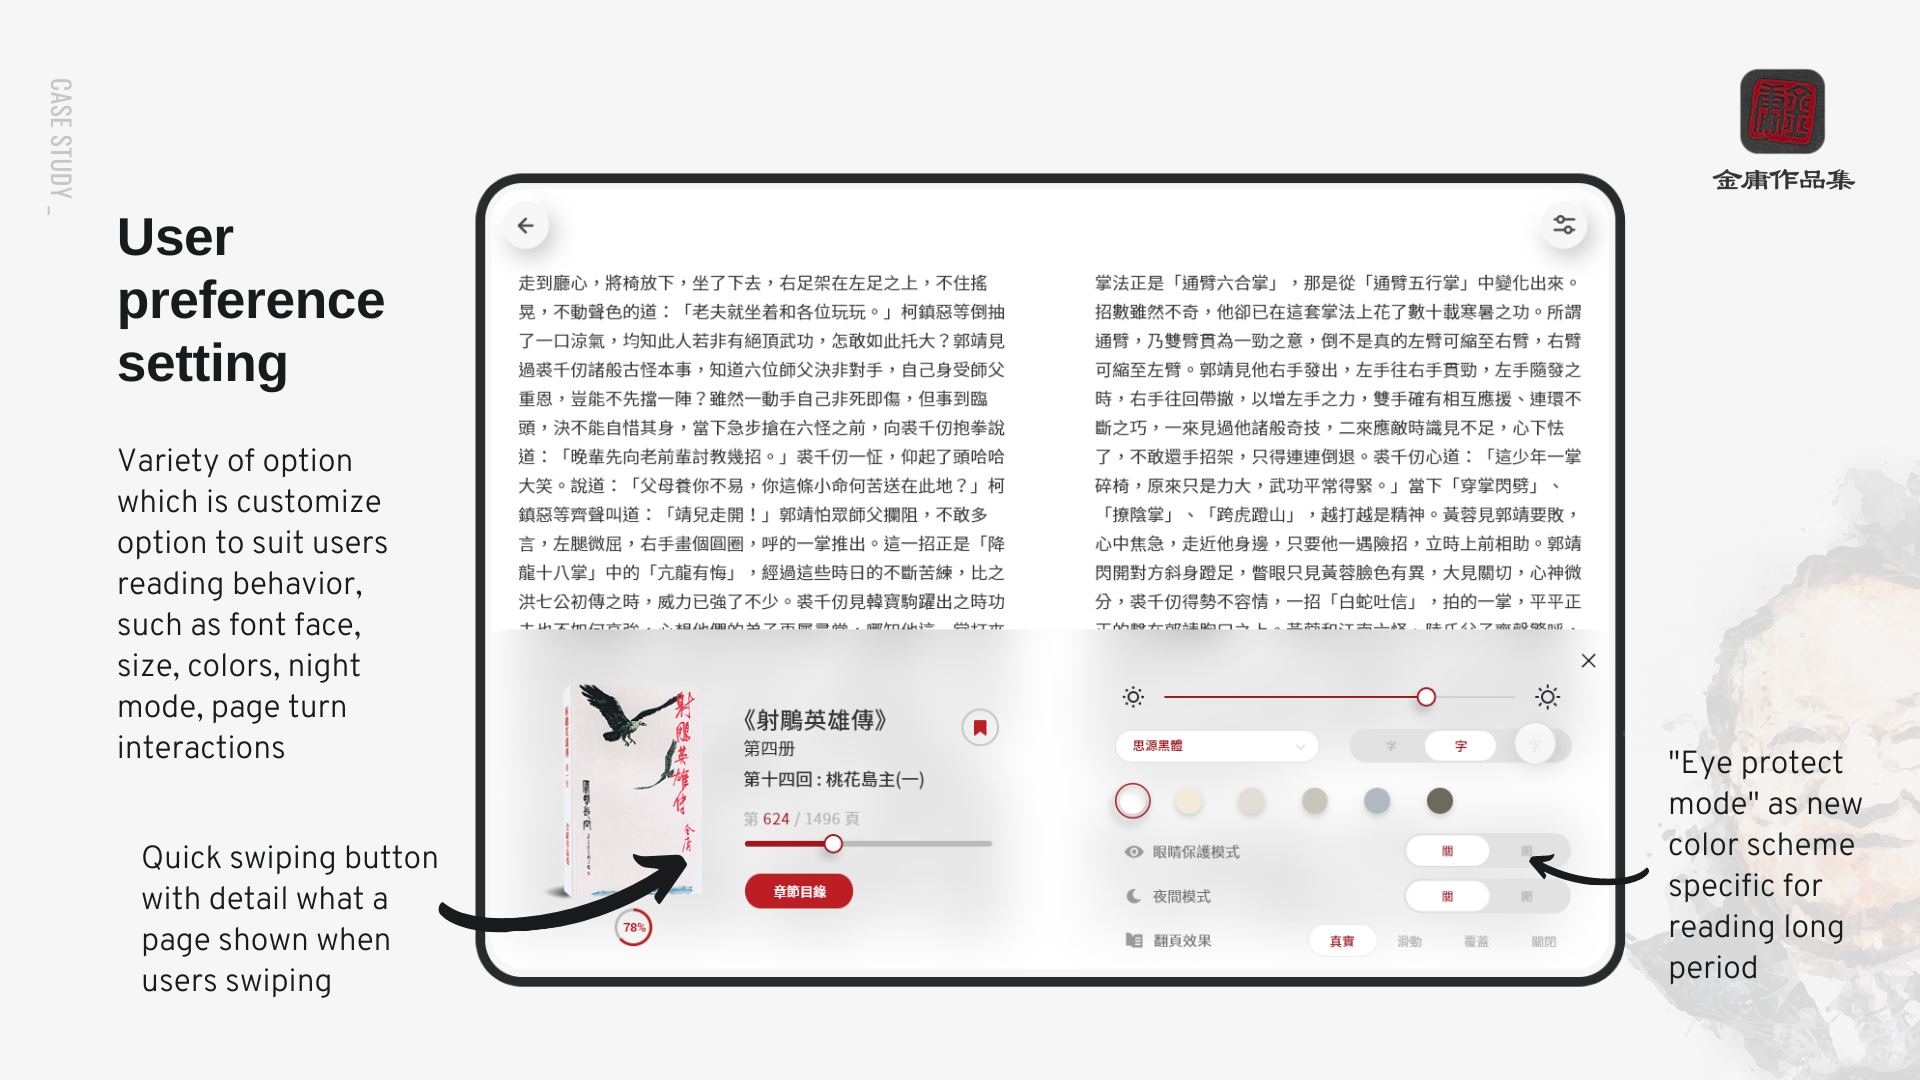
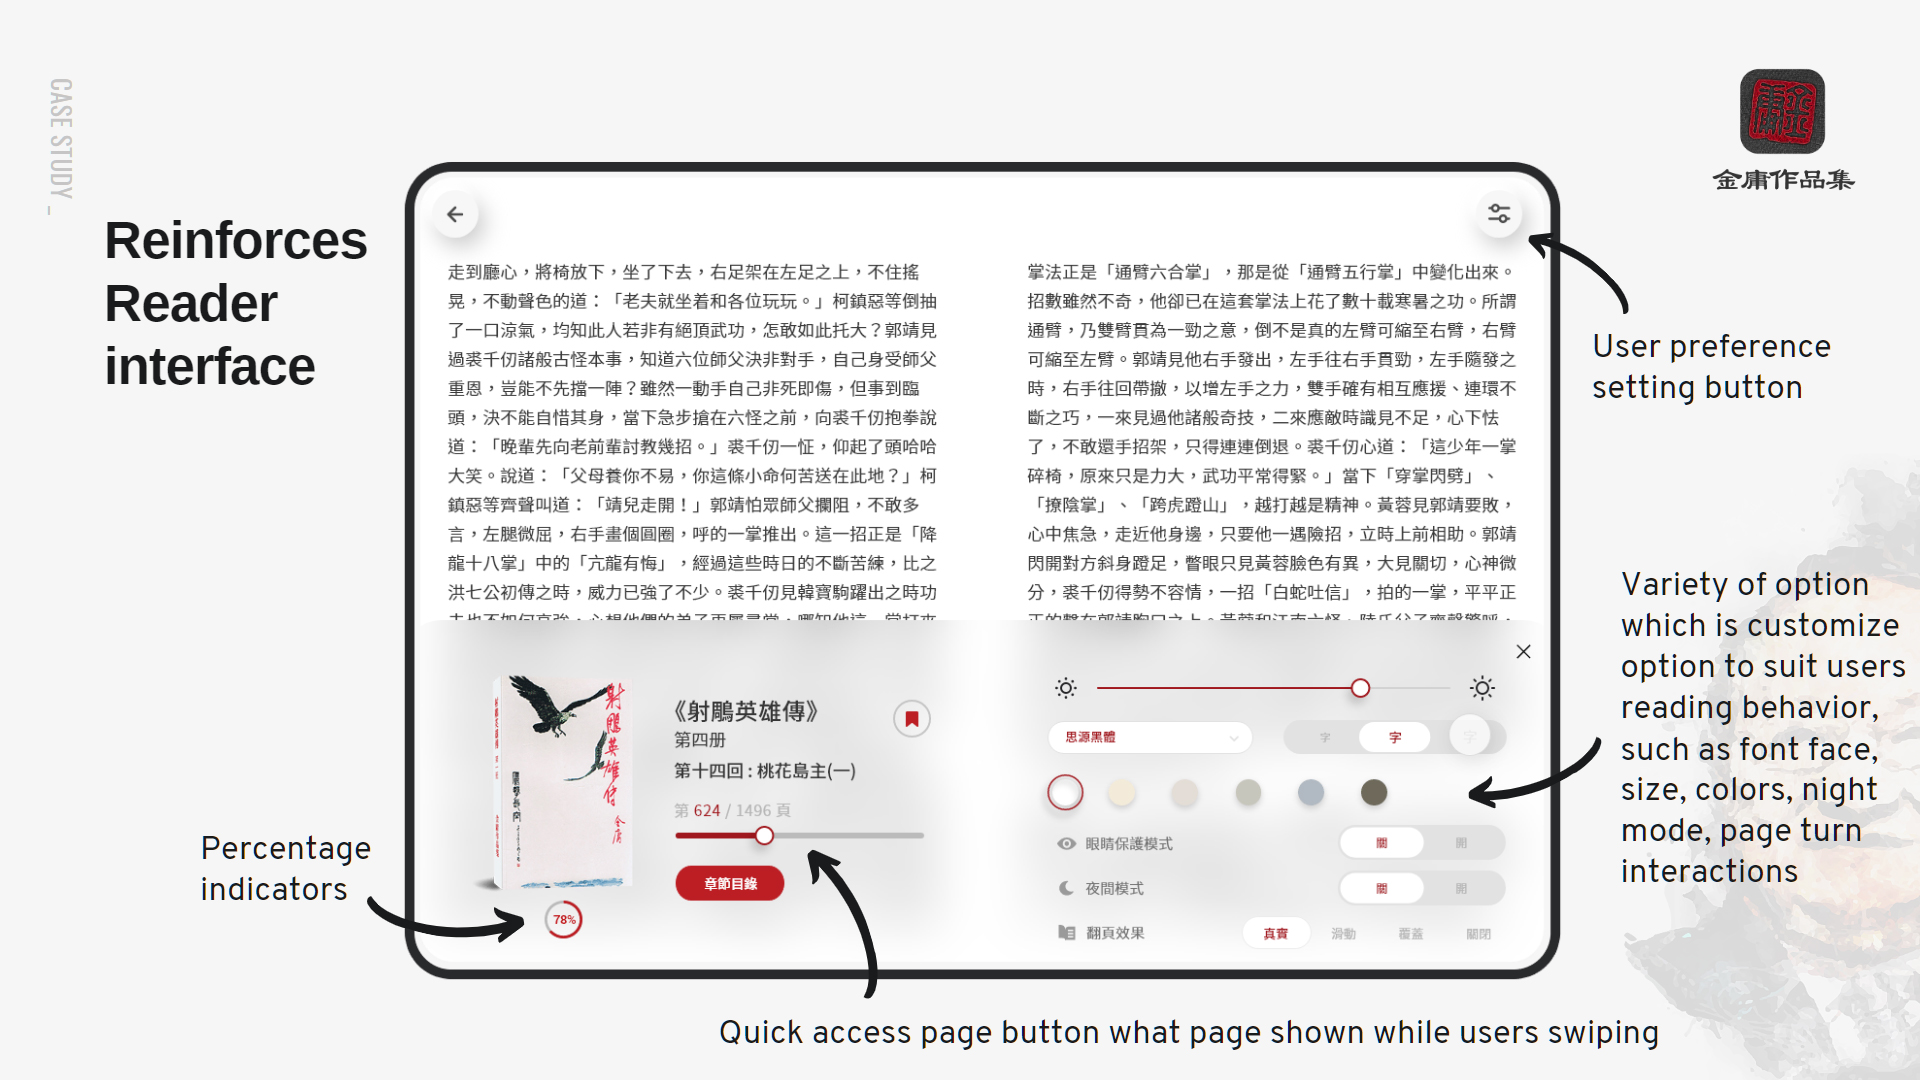
1210_01

diff --git a/project/jy_reader.html b/project/jy_reader.html
@@ -587,7 +587,7 @@
       <p class="observable body spacing-medium">Credit: <i>The color scheme according to <a href="https://www.cs.cmu.edu/~jbigham/pubs/pdfs/2017/colors.pdf" target="_blank" class="observable underlined" href="">"Luz Rello </a>- Bigham Human-Computer Interaction Institute & Carnegie Mellon University"</i></p>
 
       <p class="observable h1 spacing-title">Reinforces Reader interface</p>
-      <p class="observable body spacing-medium">In user preference setting panel, With swiping quick access button, its direct jump to page. Moreover, There are variety of option which is customize option to suit users reading behavior, such as font face, size, colors, night mode, page turn interactions and bookmarks with auto-saving the currently etc. <span class="material-icons" style="font-size:15px; top: 2px; padding-right: 4px; padding-left: 2px;">open_in_new</span> <a class="image-popup-fit-width underlined" title="Click on image to enlarge/reduce it"  href="../images/projects/jinyong_bookstore/ups.jpg">Detail</a></p>
+      <p class="observable body spacing-medium">In user preference setting panel, With quick access page button what page shown while users swiping. Moreover, There are variety of option which is customize option to suit users reading behavior, such as font face, size, colors, night mode, page turn interactions and bookmarks with auto-saving the currently etc. <span class="material-icons" style="font-size:15px; top: 2px; padding-right: 4px; padding-left: 2px;">open_in_new</span> <a class="image-popup-fit-width underlined" title="Click on image to enlarge/reduce it"  href="../images/projects/jinyong_bookstore/ups.jpg">Detail</a></p>
 
       <!--
       <p class="observable body txtpoint">#2 Reading Reminder</p>
